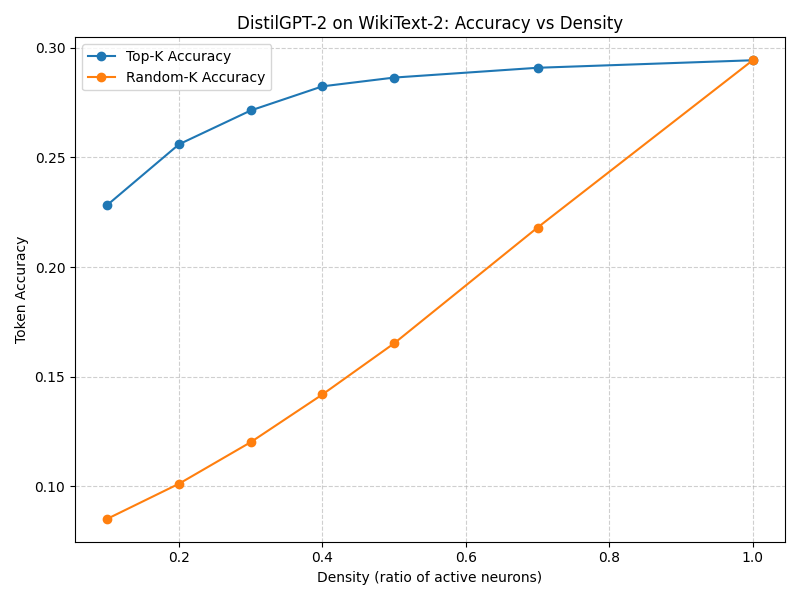
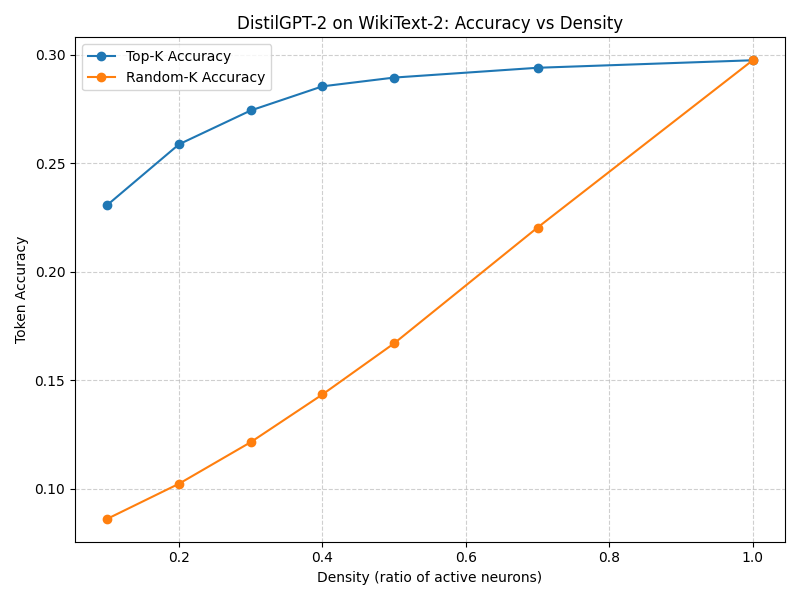
modified fix bug

diff --git a/llm_sparse/plot_masking_results.py b/llm_sparse/plot_masking_results.py
@@ -3,80 +3,51 @@ import json
 from collections import defaultdict
 
 def plot_from_json(file_path):
-    try:
-        with open(file_path, "r") as f:
-            data = json.load(f)
-    except FileNotFoundError:
-        print(f"Error: File '{file_path}' not found.")
-        return
+    with open(file_path, "r") as f:
+        data = json.load(f)
 
-    # 資料整理結構: data_map[target][mode] = list of dicts
-    # target: "first" or "all"
-    # mode: "topk" or "random"
-    results = defaultdict(lambda: defaultdict(list))
-    
+    results = defaultdict(dict)
     for item in data:
-        target = item.get("target", "first") # 相容舊格式，預設 first
+        ratio = float(item["ratio"])
         mode = item["mode"]
-        results[target][mode].append(item)
+        ppl = item["ppl"]
+        acc = item.get("acc", None)
 
-    # 排序並提取數據的輔助函式
-    def get_xy(target, mode, metric_key):
-        # 取出該組列表
-        items = results[target][mode]
-        # 根據 ratio 排序
-        items.sort(key=lambda x: float(x["ratio"]))
-        
-        ratios = [float(x["ratio"]) for x in items]
-        values = [float(x[metric_key]) for x in items]
-        return ratios, values
+        results[ratio][mode] = {"ppl": ppl, "acc": acc}
 
-    # 設定繪圖樣式
-    # 格式: (target, mode, label, color, linestyle)
-    plot_configs = [
-        ("all", "topk", "All Layers - TopK", "blue", "-"),      # 實線
-        ("all", "random", "All Layers - Random", "orange", "-"), # 實線
-        ("first", "topk", "Layer 0 - TopK", "blue", "--"),       # 虛線
-        ("first", "random", "Layer 0 - Random", "orange", "--")  # 虛線
-    ]
 
-    # --- 圖 1: PPL vs Density ---
-    plt.figure(figsize=(10, 6)) # 稍微加寬一點
-    
-    for target, mode, label, color, ls in plot_configs:
-        if target in results and mode in results[target]:
-            ratios, ppls = get_xy(target, mode, "ppl")
-            plt.plot(ratios, ppls, marker="o", label=label, color=color, linestyle=ls)
+    ratios = sorted(results.keys())
+    topk_ppl = [results[r]["topk"]["ppl"] for r in ratios if "topk" in results[r]]
+    randomk_ppl = [results[r]["random"]["ppl"] for r in ratios if "random" in results[r]]
 
+    topk_acc = [results[r]["topk"]["acc"] for r in ratios if "topk" in results[r]]
+    randomk_acc = [results[r]["random"]["acc"] for r in ratios if "random" in results[r]]
+
+
+    plt.figure(figsize=(8, 6))
+    plt.plot(ratios, topk_ppl, marker="o", label="Top-K PPL")
+    plt.plot(ratios, randomk_ppl, marker="o", label="Random-K PPL")
     plt.xlabel("Density (ratio of active neurons)")
-    plt.ylabel("Perplexity (Lower is better)")
-    plt.title("DistilGPT-2: PPL Comparison (First Layer vs All Layers)")
-    plt.legend()
-    plt.grid(True, linestyle="--", alpha=0.6)
-    
-    # 因為 Random Mask 全層的 PPL 可能會爆高，建議開 Log Scale (看情況可註解掉)
-    plt.yscale("log") 
-    plt.tight_layout()
-    plt.savefig("comparison_ppl.png")
-    print("Saved to comparison_ppl.png (Log Scale)")
-
-    # --- 圖 2: Accuracy vs Density ---
-    plt.figure(figsize=(10, 6))
-    
-    for target, mode, label, color, ls in plot_configs:
-        if target in results and mode in results[target]:
-            ratios, accs = get_xy(target, mode, "acc")
-            plt.plot(ratios, accs, marker="o", label=label, color=color, linestyle=ls)
-
-    plt.xlabel("Density (ratio of active neurons)")
-    plt.ylabel("Token Accuracy (Higher is better)")
-    plt.title("DistilGPT-2: Accuracy Comparison (First Layer vs All Layers)")
+    plt.ylabel("Perplexity")
+    plt.title("DistilGPT-2 on WikiText-2: PPL vs Density")
     plt.legend()
     plt.grid(True, linestyle="--", alpha=0.6)
     plt.tight_layout()
-    plt.savefig("comparison_acc.png")
-    print("Saved to comparison_acc.png")
+    plt.savefig("topk_vs_random_ppl.png")
+    print("plot to topk_vs_random_ppl.png")
+
+#圖 2: Accuracy vs density
+    plt.figure(figsize=(8, 6))
+    plt.plot(ratios, topk_acc, marker="o", label="Top-K Accuracy")
+    plt.plot(ratios, randomk_acc, marker="o", label="Random-K Accuracy")
+    plt.xlabel("Density (ratio of active neurons)")
+    plt.ylabel("Token Accuracy")
+    plt.title("DistilGPT-2 on WikiText-2: Accuracy vs Density")
+    plt.legend()
+    plt.grid(True, linestyle="--", alpha=0.6)
+    plt.tight_layout()
+    plt.savefig("topk_vs_random_acc.png")
+    print("Saved to topk_vs_random_acc.png")
 
 if __name__ == "__main__":
-    # 注意：這裡讀取的檔名要跟上一步存的一樣
-    plot_from_json("masked_results_comparison.json")
+    plot_from_json("masked_results.json")
